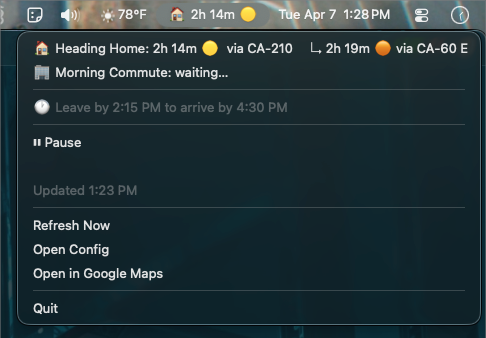
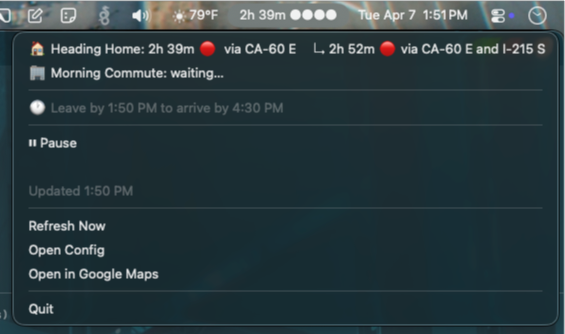
Monochrome menu bar with traffic dot meter

diff --git a/commute_eta.py b/commute_eta.py
@@ -264,14 +264,23 @@ def traffic_label(normal_sec, traffic_sec):
         return "severe"
 
 
+# Menu bar style: traffic light dot meter (filled = severity level)
 TRAFFIC_ICONS = {
+    "clear": "●○○○",
+    "moderate": "●●○○",
+    "heavy": "●●●○",
+    "severe": "●●●●",
+}
+
+# Dropdown style: keeps emoji for visual scanning in the menu
+TRAFFIC_ICONS_DROPDOWN = {
     "clear": "🟢",
     "moderate": "🟡",
     "heavy": "🟠",
     "severe": "🔴",
 }
 
-SLEEP_ICON = "😴"
+SLEEP_ICON = "zzz"
 
 
 # ---------------------------------------------------------------------------
@@ -280,7 +289,7 @@ SLEEP_ICON = "😴"
 
 class CommuteETA(rumps.App):
     def __init__(self):
-        super().__init__("⏳", quit_button=None)
+        super().__init__("ETA", quit_button=None)
 
         self.config = load_config()
 
@@ -452,7 +461,7 @@ class CommuteETA(rumps.App):
         if isinstance(result, list) and len(result) > 0:
             best = min(result, key=lambda r: r["traffic_seconds"])
             severity = traffic_label(best["duration_seconds"], best["traffic_seconds"])
-            traffic_icon = TRAFFIC_ICONS.get(severity, "")
+            traffic_icon = TRAFFIC_ICONS_DROPDOWN.get(severity, "")
             compact_time = format_minutes(best["traffic_seconds"])
 
             # Trend indicator
@@ -470,7 +479,7 @@ class CommuteETA(rumps.App):
                         s = traffic_label(r["duration_seconds"], r["traffic_seconds"])
                         alt_time = format_minutes(r["traffic_seconds"])
                         alts.append(
-                            f"    ↳ {alt_time} {TRAFFIC_ICONS.get(s, '')} via {r.get('summary', '?')}"
+                            f"    ↳ {alt_time} {TRAFFIC_ICONS_DROPDOWN.get(s, '')} via {r.get('summary', '?')}"
                         )
                 label += "\n" + "\n".join(alts)
 
@@ -487,25 +496,24 @@ class CommuteETA(rumps.App):
         dest = self.destinations[idx] if idx < len(self.destinations) else None
 
         if dest is None or result is None:
-            self.title = "⏳"
+            self.title = "ETA ..."
             return
 
         if isinstance(result, list) and len(result) > 0:
             best = min(result, key=lambda r: r["traffic_seconds"])
             severity = traffic_label(best["duration_seconds"], best["traffic_seconds"])
-            traffic_icon = TRAFFIC_ICONS.get(severity, "")
+            status = TRAFFIC_ICONS.get(severity, "")
             compact_time = format_minutes(best["traffic_seconds"])
 
             # Trend indicator in title bar
             prev = self.previous_best.get(idx)
             trend = trend_indicator(best["traffic_seconds"], prev) if prev else ""
 
-            short_name = dest.get("icon", "") or dest.get("name", "")[:3]
-            self.title = f"{short_name} {compact_time}{trend} {traffic_icon}"
+            self.title = f"{compact_time}{trend} {status}"
         elif isinstance(result, dict) and result.get("status") == "error":
-            self.title = "⚠ ETA"
+            self.title = "ETA err"
         else:
-            self.title = "⏳"
+            self.title = "ETA ..."
 
     def update_leave_by(self):
         """Update the leave-by time in the dropdown."""
@@ -557,7 +565,7 @@ class CommuteETA(rumps.App):
 
     def manual_refresh(self, _):
         """Force a refresh regardless of active hours or pause state."""
-        self.title = "⏳"
+        self.title = "ETA ..."
         threading.Thread(target=self.fetch_all, daemon=True).start()
 
     def toggle_polling(self, _):
@@ -572,7 +580,7 @@ class CommuteETA(rumps.App):
             self.is_paused = True
             self.toggle_item.title = "▶ Resume"
             self.schedule_item.title = "⏸ Paused"
-            self.title = "⏸"
+            self.title = "ETA ||"
             log("Polling paused (manual toggle)")
 
     def open_config(self, _):

diff --git a/README.md b/README.md
@@ -7,17 +7,18 @@ A lightweight macOS menu bar app that shows live drive time to saved destination
 ## What it does
 
 - Sits in your macOS menu bar showing real-time drive time with traffic
-- Color-coded severity: 🟢 clear, 🟡 moderate, 🟠 heavy, 🔴 severe
-- **Trend arrows** — see if traffic is getting better (↓), worse (↑), or steady (→)
+- **Traffic severity meter** — `●○○○` clear, `●●○○` moderate, `●●●○` heavy, `●●●●` severe
+- **Trend deltas** — see if traffic is getting better (▼3m), worse (▲5m), or steady
 - **Leave-by time** — tells you when to leave to arrive by a target time
 - **Traffic spike alerts** — macOS notification when drive time jumps significantly
-- **Schedule-aware** — only polls during your commute windows, sleeps the rest of the time (😴)
+- **Schedule-aware** — only polls during your commute windows, sleeps the rest of the time
 - **Auto-switches** — shows the right destination based on time of day (morning = office, afternoon = home)
 - Shows alternate routes in the dropdown
 - Pause/resume toggle — stop polling without quitting
 - "Refresh Now" forces a check anytime
 - "Open in Google Maps" to see the full route
 - Only polls the active destination — saves API calls
+- Monochrome menu bar style that blends with native macOS
 
 ## Setup
 
